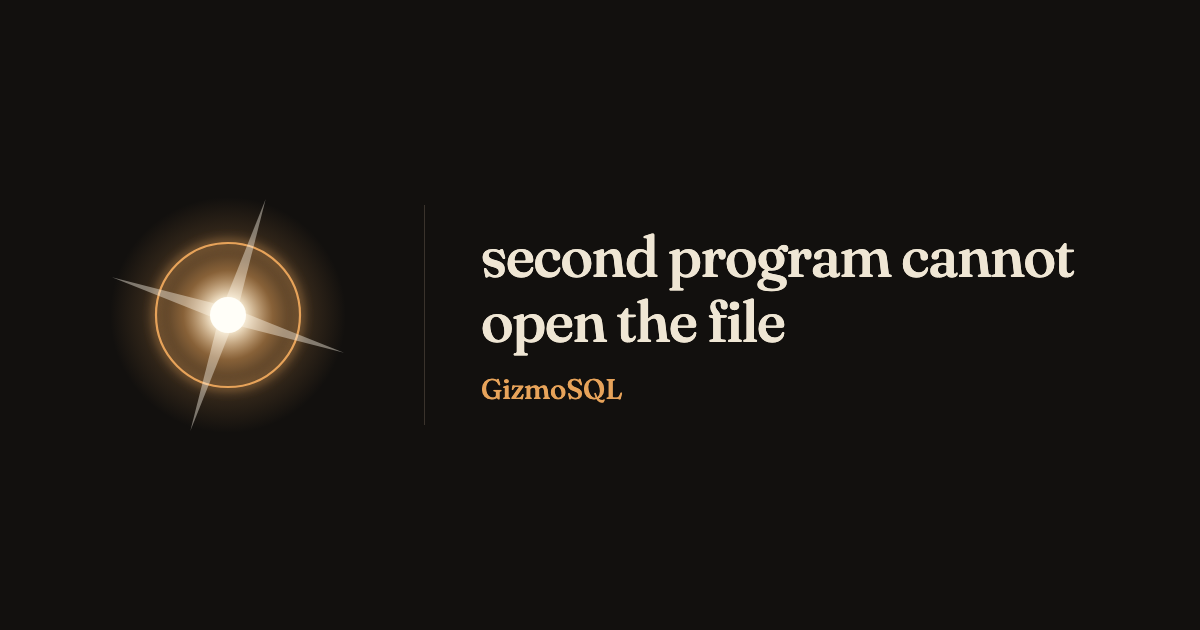
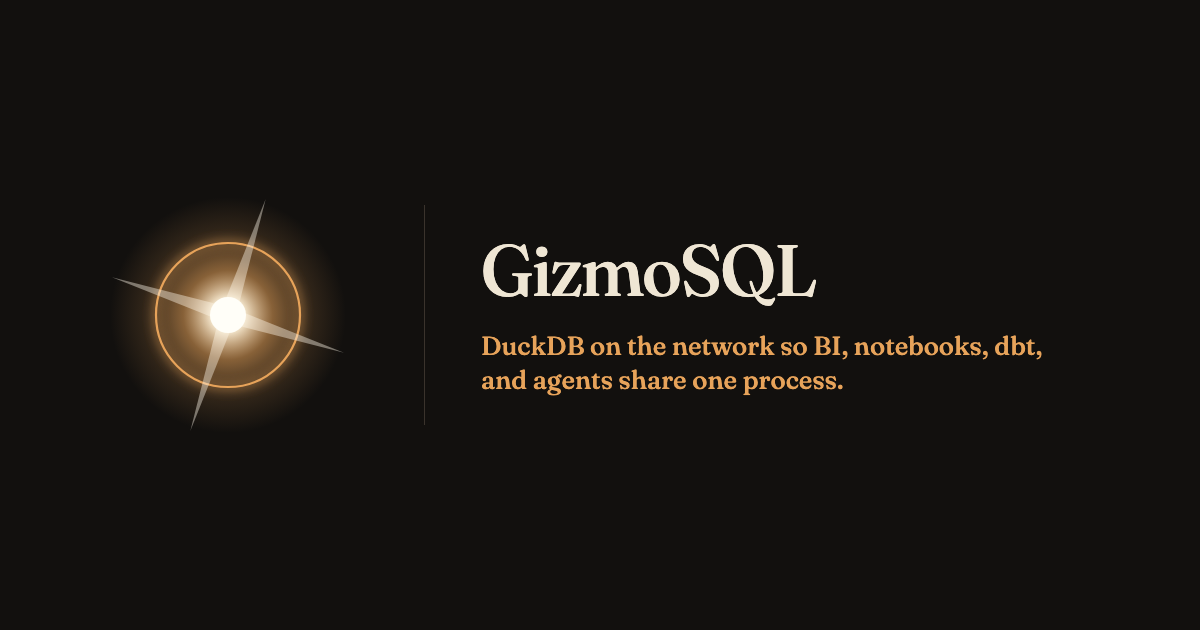
Lead the GizmoSQL share card with the product, not the file lock.

Changed region(s): [[0.4008, 0.3619, 0.8942, 0.6333]]

diff --git a/gizmoSQL/index.html b/gizmoSQL/index.html
@@ -4,26 +4,26 @@
   <meta charset="utf-8" />
   <meta name="viewport" content="width=device-width, initial-scale=1, viewport-fit=cover" />
   <meta name="theme-color" content="#050408" />
-  <title>second program cannot open the file</title>
-  <meta name="description" content="Two programs open the same DuckDB file. The second gets Could not set lock on file." />
+  <title>GizmoSQL</title>
+  <meta name="description" content="GizmoSQL puts DuckDB on the network so BI, notebooks, dbt, and agents share one process." />
   <meta name="author" content="GizmoSQL landscape" />
   <link rel="canonical" href="https://emms21.github.io/gizmosql-universe/gizmoSQL/" />
   <meta property="og:type" content="website" />
   <meta property="og:locale" content="en_US" />
   <meta property="og:site_name" content="GizmoSQL landscape" />
-  <meta property="og:title" content="second program cannot open the file" />
-  <meta property="og:description" content="Two programs open the same DuckDB file. The second gets Could not set lock on file." />
+  <meta property="og:title" content="GizmoSQL" />
+  <meta property="og:description" content="GizmoSQL puts DuckDB on the network so BI, notebooks, dbt, and agents share one process." />
   <meta property="og:url" content="https://emms21.github.io/gizmosql-universe/gizmoSQL/" />
-  <meta property="og:image" content="https://emms21.github.io/gizmosql-universe/og-gizmosql.png?v=1" />
-  <meta property="og:image:secure_url" content="https://emms21.github.io/gizmosql-universe/og-gizmosql.png?v=1" />
+  <meta property="og:image" content="https://emms21.github.io/gizmosql-universe/og-gizmosql.png?v=2" />
+  <meta property="og:image:secure_url" content="https://emms21.github.io/gizmosql-universe/og-gizmosql.png?v=2" />
   <meta property="og:image:type" content="image/png" />
   <meta property="og:image:width" content="1200" />
   <meta property="og:image:height" content="630" />
-  <meta property="og:image:alt" content="second program cannot open the file" />
+  <meta property="og:image:alt" content="GizmoSQL" />
   <meta name="twitter:card" content="summary_large_image" />
-  <meta name="twitter:title" content="second program cannot open the file" />
-  <meta name="twitter:description" content="Two programs open the same DuckDB file. The second gets Could not set lock on file." />
-  <meta name="twitter:image" content="https://emms21.github.io/gizmosql-universe/og-gizmosql.png?v=1" />
+  <meta name="twitter:title" content="GizmoSQL" />
+  <meta name="twitter:description" content="GizmoSQL puts DuckDB on the network so BI, notebooks, dbt, and agents share one process." />
+  <meta name="twitter:image" content="https://emms21.github.io/gizmosql-universe/og-gizmosql.png?v=2" />
   <link rel="icon" href="../favicon-gizmosql.png" type="image/png" />
   <link rel="apple-touch-icon" href="../apple-gizmosql.png" />
   <style>
@@ -36,9 +36,9 @@
 </head>
 <body>
   <div class="card">
-    <h1>second program cannot open the file</h1>
-    <p>Two programs open the same DuckDB file. The second gets Could not set lock on file.</p>
+    <h1>GizmoSQL</h1>
+    <p>GizmoSQL puts DuckDB on the network so BI, notebooks, dbt, and agents share one process.</p>
   </div>
-  <iframe src="../index.html?v=54#gizmoSQL" title="second program cannot open the file"></iframe>
+  <iframe src="../index.html?v=55#gizmoSQL" title="GizmoSQL"></iframe>
 </body>
 </html>

diff --git a/index.html b/index.html
@@ -5,25 +5,25 @@
   <meta name="viewport" content="width=device-width, initial-scale=1, viewport-fit=cover" />
   <meta name="theme-color" content="#050408" />
   <!--share:gizmosql-->
-  <title>second program cannot open the file</title>
-  <meta name="description" content="Two programs open the same DuckDB file. The second gets Could not set lock on file." />
-  <meta name="apple-mobile-web-app-title" content="second program cannot open the file" />
+  <title>GizmoSQL</title>
+  <meta name="description" content="GizmoSQL puts DuckDB on the network so BI, notebooks, dbt, and agents share one process." />
+  <meta name="apple-mobile-web-app-title" content="GizmoSQL" />
   <meta property="og:type" content="website" />
   <meta property="og:site_name" content="GizmoSQL landscape" />
-  <meta property="og:title" content="second program cannot open the file" />
-  <meta property="og:description" content="Two programs open the same DuckDB file. The second gets Could not set lock on file." />
+  <meta property="og:title" content="GizmoSQL" />
+  <meta property="og:description" content="GizmoSQL puts DuckDB on the network so BI, notebooks, dbt, and agents share one process." />
   <link rel="canonical" href="https://emms21.github.io/gizmosql-universe/gizmoSQL/" />
-  <meta property="og:image" content="https://emms21.github.io/gizmosql-universe/og-gizmosql.png?v=1" />
-  <meta property="og:image:secure_url" content="https://emms21.github.io/gizmosql-universe/og-gizmosql.png?v=1" />
+  <meta property="og:image" content="https://emms21.github.io/gizmosql-universe/og-gizmosql.png?v=2" />
+  <meta property="og:image:secure_url" content="https://emms21.github.io/gizmosql-universe/og-gizmosql.png?v=2" />
   <meta property="og:image:type" content="image/png" />
   <meta property="og:image:width" content="1200" />
   <meta property="og:image:height" content="630" />
-  <meta property="og:image:alt" content="second program cannot open the file" />
+  <meta property="og:image:alt" content="GizmoSQL" />
   <meta property="og:url" content="https://emms21.github.io/gizmosql-universe/gizmoSQL/" />
   <meta name="twitter:card" content="summary_large_image" />
-  <meta name="twitter:title" content="second program cannot open the file" />
-  <meta name="twitter:description" content="Two programs open the same DuckDB file. The second gets Could not set lock on file." />
-  <meta name="twitter:image" content="https://emms21.github.io/gizmosql-universe/og-gizmosql.png?v=1" />
+  <meta name="twitter:title" content="GizmoSQL" />
+  <meta name="twitter:description" content="GizmoSQL puts DuckDB on the network so BI, notebooks, dbt, and agents share one process." />
+  <meta name="twitter:image" content="https://emms21.github.io/gizmosql-universe/og-gizmosql.png?v=2" />
   <link rel="icon" href="favicon-gizmosql.png" type="image/png" />
   <link rel="apple-touch-icon" href="apple-gizmosql.png" />
   <!--/share-->

diff --git a/README.md b/README.md
@@ -2,6 +2,6 @@
 
 A map of GizmoSQL. Same sky engine as LiveKit, Dagger, and GrowthBook.
 
-- [second program cannot open the file](https://emms21.github.io/gizmosql-universe/gizmoSQL/) — two programs open the same DuckDB file. The second gets `Could not set lock on file`.
+- [GizmoSQL](https://emms21.github.io/gizmosql-universe/gizmoSQL/) — DuckDB on the network so BI, notebooks, dbt, and agents share one process.
 
 Entry: `gizmoSQL/` — `/gizmoSQL` when this folder is the site. Lands on the sky. Share that path on LinkedIn, not the `#gizmoSQL` hash.
